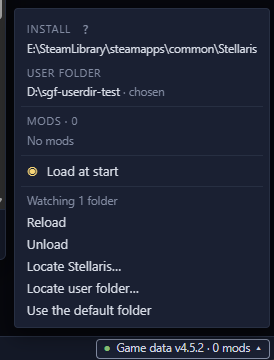
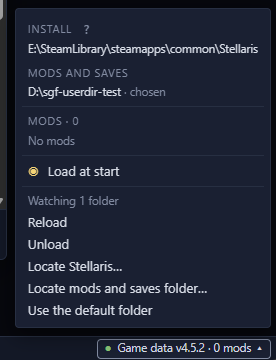
Call the user folder "Mods and saves", and take the folder above a picked mod folder

diff --git a/app/src/panels/chrome/GameDataPanel.tsx b/app/src/panels/chrome/GameDataPanel.tsx
@@ -5,7 +5,13 @@ import type { GameDataSummary } from "../../generated/GameDataSummary";
 import type { ModView } from "../../generated/ModView";
 import type { Progress } from "../../generated/Progress";
 import { counted, phaseLabel } from "../../lib/text";
-import { lacksPlayset, listedDiagnostics, userDirShown } from "../../lib/userDir";
+import {
+  LOCATE_USER_DIR,
+  lacksPlayset,
+  listedDiagnostics,
+  USER_DIR_LABEL,
+  userDirShown,
+} from "../../lib/userDir";
 import { useGameDataStore } from "../../store/gameDataStore";
 import { HelpLink } from "../HelpLink";
 import { FilterField } from "../parts";
@@ -130,7 +136,7 @@ export function GameDataPanel() {
   };
 
   const locateUserDir = async () => {
-    const picked = await open({ directory: true, multiple: false, title: "Locate user folder" });
+    const picked = await open({ directory: true, multiple: false, title: LOCATE_USER_DIR });
     if (typeof picked === "string") await chooseUserDir(picked);
   };
 
@@ -149,7 +155,7 @@ export function GameDataPanel() {
             </div>
             <div className="menu-note">{install ?? "none found yet"}</div>
             {status === "error" && error && <div className="menu-note warn">{error}</div>}
-            <div className="menu-section">User folder</div>
+            <div className="menu-section">{USER_DIR_LABEL}</div>
             <div className="menu-note">
               {shownDir?.path ?? (summary ? "none found" : "none found yet")}
               {shownDir?.note && <span className="muted"> · {shownDir.note}</span>}
@@ -207,7 +213,7 @@ export function GameDataPanel() {
             />
             <MenuItem label="Locate Stellaris…" dismiss={dismiss} onClick={locate} />
             {status !== "loading" && (
-              <MenuItem label="Locate user folder…" dismiss={dismiss} onClick={locateUserDir} />
+              <MenuItem label={`${LOCATE_USER_DIR}…`} dismiss={dismiss} onClick={locateUserDir} />
             )}
             {status !== "loading" && userDir !== undefined && (
               <MenuItem label="Use the default folder" dismiss={dismiss} onClick={forgetUserDir} />

diff --git a/app/src/store/gameDataStore.ts b/app/src/store/gameDataStore.ts
@@ -29,7 +29,7 @@ import type { FlagParts } from "../generated/FlagParts";
 import type { ShipSizeView } from "../generated/ShipSizeView";
 import type { StarbaseLevelView } from "../generated/StarbaseLevelView";
 import { VANILLA_MOON_SCALE } from "../lib/details/discs";
-import { USER_DIR_REFUSED } from "../lib/userDir";
+import { aboveModFolder, USER_DIR_REFUSED } from "../lib/userDir";
 import { setMapNameFont } from "../lib/visual/mapFont";
 import { clearTextures } from "../lib/visual/textures";
 import { NAMES_BATCH } from "./batching";
@@ -322,19 +322,19 @@ export const useGameDataStore = create<GameDataState>((set, get) => ({
 
   async chooseUserDir(path) {
     const mine = userDirPicks.next();
-    let holdsUserData: boolean;
+    let userDir: string | null;
     try {
-      holdsUserData = await ipc.isUserDir(path);
+      userDir = await userDirAt(path);
     } catch (e) {
       if (userDirPicks.is(mine)) set({ userDirRefusal: ipc.errorMessage(e) });
       return;
     }
     if (!userDirPicks.is(mine)) return;
-    if (!holdsUserData) {
+    if (userDir === null) {
       set({ userDirRefusal: USER_DIR_REFUSED });
       return;
     }
-    set({ userDir: path, userDirRefusal: null });
+    set({ userDir, userDirRefusal: null });
     await loadForUserDir();
   },
 
@@ -654,6 +654,13 @@ async function loadForUserDir(): Promise<void> {
   const { status, startup, load } = useGameDataStore.getState();
   if (status === "ready" || status === "error") await load();
   else if (status === "idle" && startup === "ready") rememberChosenUserDir();
+}
+
+/** `path` when it holds mods, a playset or saves, else the folder above it when `path` is its `mod` folder. */
+async function userDirAt(path: string): Promise<string | null> {
+  if (await ipc.isUserDir(path)) return path;
+  const above = aboveModFolder(path);
+  return above !== null && (await ipc.isUserDir(above)) ? above : null;
 }
 
 function rememberChosenUserDir(): void {

diff --git a/app/src/panels/file/Setup.tsx b/app/src/panels/file/Setup.tsx
@@ -1,6 +1,6 @@
 import { open } from "@tauri-apps/plugin-dialog";
 import { useEffect, useRef, useState } from "react";
-import { lacksPlayset, userDirShown } from "../../lib/userDir";
+import { LOCATE_USER_DIR, lacksPlayset, USER_DIR_LABEL, userDirShown } from "../../lib/userDir";
 import { useGameDataStore } from "../../store/gameDataStore";
 import { HelpLink } from "../HelpLink";
 import "./open.css";
@@ -41,7 +41,7 @@ export function Setup() {
   };
 
   const changeUserDir = async () => {
-    const picked = await open({ directory: true, multiple: false, title: "Locate user folder" });
+    const picked = await open({ directory: true, multiple: false, title: LOCATE_USER_DIR });
     if (typeof picked === "string") await chooseUserDir(picked);
   };
 
@@ -81,7 +81,7 @@ export function Setup() {
           </button>
         </div>
         <div className="setup-install">
-          <span className="muted setup-label">User folder</span>
+          <span className="muted setup-label">{USER_DIR_LABEL}</span>
           <span className="setup-path">
             {shownDir?.path ?? (
               <span className="muted">
@@ -93,7 +93,7 @@ export function Setup() {
           {noPlayset && <span className="warn">no mods found</span>}
           {!loading && (
             <button type="button" className="link" onClick={() => void changeUserDir()}>
-              {noPlayset ? "Locate user folder…" : "Change folder…"}
+              {noPlayset ? `${LOCATE_USER_DIR}…` : "Change folder…"}
             </button>
           )}
           {!loading && userDir !== undefined && (

diff --git a/app/src/panels/file/Setup.test.tsx b/app/src/panels/file/Setup.test.tsx
@@ -17,10 +17,10 @@ beforeEach(() => {
   useGameDataStore.setState({ ...useGameDataStore.getInitialState() });
 });
 
-describe("Setup user folder row", () => {
+describe("Setup mods and saves row", () => {
   it("says the folder is found on Continue before game data loads", () => {
     const html = card();
-    expect(html).toContain("User folder");
+    expect(html).toContain("Mods and saves");
     expect(html).toContain("found automatically when you continue");
     expect(buttons(markup())).toContain("Change folder…");
     expect(html).not.toContain("Use the default folder");
@@ -38,7 +38,7 @@ describe("Setup user folder row", () => {
     expect(html).toContain("D:/Paradox/Stellaris");
     expect(html).toContain("from the game's launcher settings");
     expect(html).toContain("no mods found");
-    expect(buttons(markup())).toContain("Locate user folder…");
+    expect(buttons(markup())).toContain("Locate mods and saves folder…");
   });
 
   it("offers the default once a folder was chosen", () => {

diff --git a/app/src/lib/userDir.ts b/app/src/lib/userDir.ts
@@ -2,6 +2,18 @@ import type { DiagnosticView } from "../generated/DiagnosticView";
 import type { GameDataSummary } from "../generated/GameDataSummary";
 import type { UserDirSource } from "../generated/UserDirSource";
 
+/** The name the Setup card and the Game data panel give the user folder. */
+export const USER_DIR_LABEL = "Mods and saves";
+
+/** The action that picks the user folder, and the title of the folder dialog it opens. */
+export const LOCATE_USER_DIR = "Locate mods and saves folder";
+
+/** The folder above `path` when `path` is a folder named `mod`, which players often pick for their mods. */
+export function aboveModFolder(path: string): string | null {
+  const match = /^(.*?)[\\/]mod[\\/]?$/i.exec(path);
+  return match?.[1] ? match[1] : null;
+}
+
 /** What choosing a folder that holds no mods, playset or saves says. */
 export const USER_DIR_REFUSED =
   "That folder has no mods, playset or saves. Choose the Stellaris folder that holds them.";

diff --git a/app/src/store/gameDataStore.userDir.test.ts b/app/src/store/gameDataStore.userDir.test.ts
@@ -79,6 +79,22 @@ describe("user folder", () => {
     expect(data().userDirRefusal).toBeNull();
   });
 
+  it("picking the mod folder inside the folder takes the folder", async () => {
+    await loadGameData();
+    const windows = "D:\\Games\\Stellaris";
+    mockedIpc.isUserDir.mockImplementation(async (path) => path === MOVED || path === windows);
+    await data().chooseUserDir(`${MOVED}/mod`);
+    expect(data().userDir).toBe(MOVED);
+    expect(mockedIpc.loadGameData).toHaveBeenLastCalledWith(undefined, MOVED);
+
+    await data().chooseUserDir(`${windows}\\Mod\\`);
+    expect(data().userDir).toBe(windows);
+
+    await data().chooseUserDir("E:\\Elsewhere\\mod");
+    expect(data().userDirRefusal).toBe(USER_DIR_REFUSED);
+    expect(data().userDir).toBe(windows);
+  });
+
   it("using the default forgets the chosen folder and the next load sends none", async () => {
     await loadGameData();
     await data().chooseUserDir(MOVED);

diff --git a/app/src/panels/file/open.css b/app/src/panels/file/open.css
@@ -590,7 +590,7 @@
 
 .setup-label {
   flex: none;
-  min-width: 6.5em;
+  min-width: 8em;
 }
 
 .setup-path {

diff --git a/guide/start/game-data.md b/guide/start/game-data.md
@@ -1,7 +1,7 @@
 ---
 title: Game data and mods
 description: How Galaxy Forge reads your Stellaris install and enabled mods, and what to do when it can't find them.
-aliases: [install folder, stellaris folder, locate stellaris, game path, mods, modded, playset, star art, localisation, names, game data off, game data unavailable, reload, unload, load at start, auto-reload, plain stars, before you start, setup, user folder, mods not found, moved mod folder, documents folder, save folder]
+aliases: [install folder, stellaris folder, locate stellaris, game path, mods, modded, playset, star art, localisation, names, game data off, game data unavailable, reload, unload, load at start, auto-reload, plain stars, before you start, setup, user folder, mods not found, moved mod folder, documents folder, save folder, mods and saves folder]
 ---
 # Game data and mods <Badge type="tip" text="Save" /> <Badge type="info" text="Scenario" />
 
@@ -30,16 +30,17 @@ Once a file is open, "Locate Stellaris…" is in the Game data panel too.
 
 ## Find your mods and saves
 
-Stellaris keeps your mods, your playset and your saves in a user folder,
+Stellaris keeps your mods, your playset and your saves in one folder,
 apart from the install. It is usually
 `Documents\Paradox Interactive\Stellaris`. If you moved it, for example
 to another drive, and set the new place in the game's launcher settings,
 Galaxy Forge finds it there. The card and the Game data panel then say
 "from the game's launcher settings" after the folder.
 
-When the User folder row says "no mods found", click "Locate user
-folder…" and pick the folder that holds your `mod` folder,
-`dlc_load.json` or `save games` folder. Galaxy Forge remembers it, and
+When the Mods and saves row says "no mods found", click "Locate mods
+and saves folder…" and pick the folder that holds your `mod` folder,
+`dlc_load.json` or `save games` folder. Picking the `mod` folder itself
+works too. Galaxy Forge remembers it, and
 the Open screen lists the saves in it. "Use the default folder" goes
 back to the folder Galaxy Forge finds by itself.
 
@@ -49,11 +50,11 @@ The Game data button is at the right end of the status bar. It shows the
 game version and how many mods it loaded, such as "Game data v4.5.1 · 0
 mods". Click it to open the panel.
 
-![The Game data panel with the install folder, a chosen user folder, mods, Load at start, Reload, Unload, Locate Stellaris, Locate user folder and Use the default folder](../images/start/game-data-panel.png)
+![The Game data panel with the install folder, a chosen mods and saves folder, mods, Load at start, Reload, Unload, Locate Stellaris, Locate mods and saves folder and Use the default folder](../images/start/game-data-panel.png)
 
 - Install shows the Stellaris folder it reads.
-- User folder shows the folder your mods, playset and saves are in.
-  "Locate user folder…" picks another one.
+- Mods and saves shows the folder your mods, playset and saves are in.
+  "Locate mods and saves folder…" picks another one.
 - Diagnostics lists files it couldn't read, when there are any.
 - Mods lists the mods in the playset Stellaris last started with, in
   load order. A mod marked "missing" is in your playset but its files

diff --git a/guide/images/SHOTS.md b/guide/images/SHOTS.md
@@ -49,7 +49,7 @@ The Issues, Changes and added-system shots show those edits.
 | `start/open-mode.png` | `start/open.md`, `scenario/paint-a-galaxy.md` | "Open 4.5-day-one.sav" with Edit as save and Edit as scenario | Double-click the 4.5 save on the Open screen. Hover Edit as scenario so its checkbox shows. |
 | `start/window.png` | `start/the-window.md` | The whole window, numbered by the page through `<Annotated>` | The 4.5 save with Soukias #576 selected, Tilt at 0°. |
 | `start/file-menu.png` | `start/the-window.md` | The File menu with Open recent | Open the File menu with the Paint a Galaxy scenario open, after opening 4.4-early, 4.5-day-one and a copy of the 4.5 save. |
-| `start/game-data-panel.png` | `start/game-data.md` | The game data menu with the install path, a chosen user folder and no mods | Shot from `npm run tauri dev` on Stellaris 4.5.2 game data. Choose a user folder with Locate user folder… that holds a `save games` folder and a `dlc_load.json` with no mods enabled, then click "Game data v4.5.2 · 0 mods" in the status bar. |
+| `start/game-data-panel.png` | `start/game-data.md` | The game data menu with the install path, a chosen mods and saves folder and no mods | Shot from `npm run tauri dev` on Stellaris 4.5.2 game data. Choose a folder with Locate mods and saves folder… that holds a `save games` folder and a `dlc_load.json` with no mods enabled, then click "Game data v4.5.2 · 0 mods" in the status bar. |
 
 ## Find your way
 

diff --git a/changelog.d/user-folder.md b/changelog.d/user-folder.md
@@ -1,10 +1,10 @@
 ### Added
 
-- You can choose the Stellaris user folder yourself on the "Before you
-  start" card or in the Game data panel. Galaxy Forge warns you when the
-  folder it reads has no mods.
+- You can choose the folder that holds your Stellaris mods and saves on
+  the "Before you start" card or in the Game data panel. Galaxy Forge
+  warns you when the folder it reads has no mods.
 
 ### Fixed
 
-- Galaxy Forge finds your mods and saves when you've moved the Stellaris
-  user folder and set the new place in the game's launcher settings.
+- Galaxy Forge finds your mods and saves when you've moved their
+  Stellaris folder and set the new place in the game's launcher settings.
